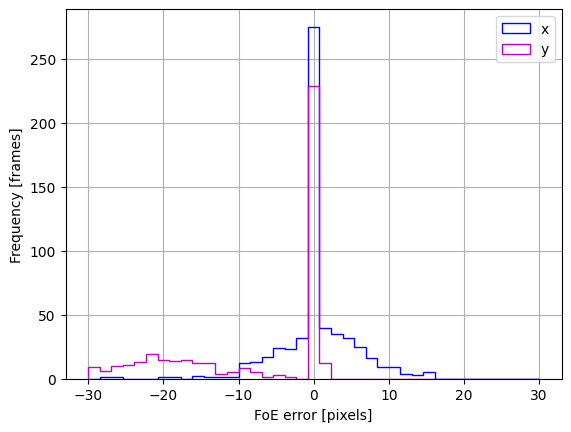
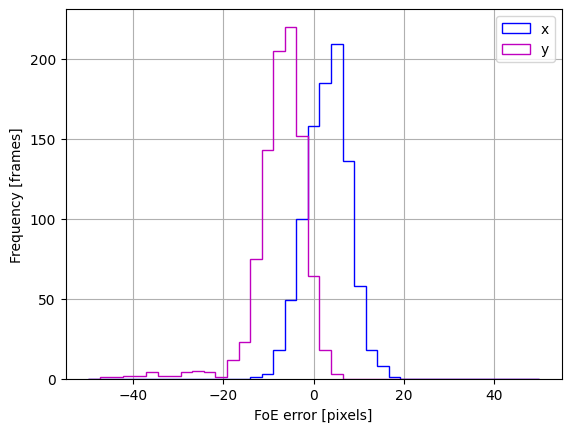
Improve figures
Former-commit-id: ff93abe1228d149b0bcba976931b618fb4181be5 [formerly 8fe4a6631e02c2bce13f45d26eb5c0f99150a54c]
Former-commit-id: 291324423d79be15621400dc873f6ae71a3a7f2d

diff --git a/src/validator.py b/src/validator.py
@@ -147,6 +147,7 @@ class Validator:
                 self.frames[i].foe_gt = json_result['foe_gt']
                 self.frames[i].drone_flow_pixels = json_result['drone_flow_pixels']
                 self.frames[i].drone_size_pixels = json_result['drone_size_pixels']
+                self.frames[i].center_phi = json_result['center_phi']
 
     def plot(self) -> None:
         utils.create_if_not_exists('media/output')
@@ -164,10 +165,9 @@ class Validator:
             return
 
         # print(foe_dense.dtype)
-        self.foe_error = foe_dense - foe_gt
-        foe_error_mag = im_helpers.get_magnitude(self.foe_error)
+        self.foe_error = foe_dense[1:] - foe_gt[1:]
 
-        outlier_threshold = 40.0
+        outlier_threshold = 50.0
         inliers_list = []
 
         for i in range(self.foe_error.shape[0]):
@@ -200,9 +200,10 @@ class Validator:
         warnings.filterwarnings('ignore')
 
         # Load data
-        t = [f.time for _, f in self.frames.items()]
-        x = [f.fpr for _, f in self.frames.items()]
-        y = [f.tpr for _, f in self.frames.items()]
+        t = np.array([f.time for _, f in self.frames.items()])
+        phi = np.array([float(f.center_phi) for _, f in self.frames.items()])
+        x = np.array([f.fpr for _, f in self.frames.items()])
+        y = np.array([f.tpr for _, f in self.frames.items()])
         flow_x = np.array([float(f.drone_flow_pixels[0]) for _, f in self.frames.items()])
         flow_y = np.array([float(f.drone_flow_pixels[1]) for _, f in self.frames.items()])
         size = np.array([int(f.drone_size_pixels) for _, f in self.frames.items()])
@@ -210,44 +211,62 @@ class Validator:
         flow_x = flow_x[~np.isnan(flow_x)]
         flow_y = flow_y[~np.isnan(flow_y)]
 
-        x_easy = x[2:len(x)//2]
-        y_easy = y[2:len(y)//2]
-        x_hard = x[len(x)//2:-2]
-        y_hard = y[len(y)//2:-2]
-
+        # Phi vs TPR
         plt.figure()
         plt.grid()
-        plt.plot(x_easy, y_easy, ls='', marker='o', label=r'$\phi \approx 180\degree$')
-        plt.plot(x_hard, y_hard, ls='', marker='o', label=r'$\phi \approx 0\degree$')
-        plt.xlabel('False Positive Rate')
-        plt.ylabel('True Positive Rate')
-        # plt.xlim(0, np.max(x_hard) * 1.02)
-        plt.xlim(0, 8e-4)
-        plt.ylim(0, 1.0)
-        plt.ticklabel_format(axis="x", style="sci", scilimits=(0,0))
-        plt.legend(loc='lower right')
-        plt.savefig(f'{self.dataset.seq_path}/roc', bbox_inches='tight')
-
-        # Time series
-        plt.figure()
-        plt.grid()
-        plt.plot(t, y, ls='', marker='o')
-        plt.xlabel('Time [s]')
+        plt.plot(phi, y, ls='', marker='o')
+        plt.xlabel(r'$\phi$ [deg]')
         plt.ylabel('True Positive Rate')
         plt.ylim(0, 1.0)
-        plt.savefig(f'{self.dataset.seq_path}/tpr_vs_time', bbox_inches='tight')
+        plt.xlim(-180, 0)
 
         print(f'size: {np.average(size):.3f}, {np.std(size):.1f}')
         print(f'flow x: {np.average(flow_x):.3f}, {np.std(flow_x):.1f}')
         print(f'flow y: {np.average(flow_y):.3f}, {np.std(flow_y):.1f}')
 
+        plt.savefig(f'{self.dataset.seq_path}/tpr_vs_time_raw', bbox_inches='tight')
+
+        # Cluster/window the data into bins to make plot more readble.
+        bins_start = np.linspace(-180, -25, 40)
+        bins_end = np.linspace(-25, 0, 30)
+        bins = np.concatenate([bins_start, bins_end])
+        avg_std = np.zeros((len(bins), 3))
+        y_finite = y[~np.isnan(y)]
+
+        for i in range(1, len(bins)):
+            bin_mask = (phi >= bins[i - 1]) * (phi < bins[i])
+
+            avg_std[i-1, :] = [
+                np.average(phi[bin_mask]),
+                np.average(y_finite[bin_mask]),
+                np.std(y_finite[bin_mask])
+            ]
+
+        # Remove nan values.
+        # avg_std = avg_std[avg_std[:, 0] > -180.0, :]
+
+        # Plot errorbars only for the optimal threshold.
+        plt.figure()
+        plt.grid()
+        plt.xlabel(r'$\phi$ [deg]')
+        plt.ylabel('True Positive Rate')
+        plt.ylim(0, 1.0)
+        plt.errorbar(avg_std[:, 0], avg_std[:, 1], yerr=avg_std[:, 2],
+            marker='o', markersize=6, capsize=3, barsabove=True, label='', zorder=1, color='indigo')
+
+        print(avg_std[:, 1])
+
+        plt.savefig(f'{self.dataset.seq_path}/tpr_vs_time', bbox_inches='tight')
+
+        # Save data
         np.save(
             f'{self.dataset.seq_path}/validation.npy',
             np.array([
                 np.average(y), np.std(y),
                 np.average(size), np.std(size),
-                np.average(flow_x), np.std(flow_x),
+                np.median(flow_x), np.std(flow_x),
                 np.average(flow_y), np.std(flow_y),
+                avg_std,
                 x, y,
             ])
         )
@@ -264,7 +283,6 @@ class Validator:
         plt.plot(x, y, ls='', marker='o')
         plt.xlabel('False Positive Rate')
         plt.ylabel('True Positive Rate')
-        # plt.xlim(0, 1.0)
         plt.ylim(0, 1.0)
         plt.savefig(f'{self.dataset.seq_path}/sky_roc', bbox_inches='tight')
         return

diff --git a/src/processor.py b/src/processor.py
@@ -309,7 +309,7 @@ class Processor:
                 FoE_gt = self.dataset.get_gt_foe(self.frame_index)
                 FoE: Tuple[float, float] = utils.assert_type(FoE_dense)
 
-                phi_angle = self.focus_of_expansion.check_flow(self.flow_uv_derotated, FoE)
+                phi_angle = self.focus_of_expansion.get_phi(self.flow_uv_derotated, FoE)
                 phi_angle_rgb = im_helpers.to_rgb(phi_angle, max_value=180.0)
                 result_img = im_helpers.apply_colormap(phi_angle_rgb, max_value=180.0)
 
@@ -319,16 +319,15 @@ class Processor:
 
                 if True:
                     segmentation = self.dataset.get_segmentation(self.frame_index)[..., 0]
-                    estimate = phi_angle * (mask != True) * (self.flow_mag > 1.0)
-                    angle_threshold = 20
+                    estimate = phi_angle * (self.flow_mag > 1.0) * (mask != True)
+                    angle_threshold = 15
 
                     drone_flow_avg = np.average(self.flow_uv[segmentation > 127], axis=0)
                     drone_flow_avg_gt = np.average(self.dataset.get_gt_of(self.frame_index)[segmentation > 127], axis=0)
 
                     bounding_box = im_helpers.get_simple_bounding_box(segmentation)
-
-                    print(bounding_box.get_left() - prev_bbox_left, drone_flow_avg[0], drone_flow_avg_gt[0], 1920 / self.dataset.N)
-                    prev_bbox_left = bounding_box.get_left()
+                    center = bounding_box.get_center()
+                    center_phi = np.rad2deg(np.arctan2(center[1] - FoE_gt[1], center[0] - FoE_gt[0]))
 
                     tpr, fpr = im_helpers.calculate_tpr_fpr(segmentation, 255 * (estimate > angle_threshold))
                     frameresult.tpr = tpr
@@ -338,12 +337,19 @@ class Processor:
                     frameresult.drone_flow_pixels = (drone_flow_avg_gt[0], drone_flow_avg_gt[1])
                     frameresult.drone_size_pixels = np.sum(segmentation > 127)
                     frameresult.time = self.dataset.get_time(self.frame_index)
+                    frameresult.center_phi = center_phi
 
                     utils.create_if_not_exists(self.dataset.result_imgs_path)
-                    img = im_helpers.apply_colormap(estimate, max_value=180)
-                    img = self.focus_of_expansion.draw_FoE(img, FoE_dense,  [255, 255, 255])
-
+                    img = im_helpers.to_rgb(255 * (estimate > angle_threshold))
                     cv2.imwrite(f'{self.dataset.result_imgs_path}/image_{self.frame_index:05d}.png', img)
+
+                    derotated_path = self.dataset.seq_path + '/derotated'
+                    utils.create_if_not_exists(derotated_path)
+                    cv2.imwrite(f'{derotated_path}/image_{self.frame_index:05d}.png', im_helpers.get_flow_vis(self.flow_uv_derotated))
+
+                    phi_path = self.dataset.seq_path + '/phi'
+                    utils.create_if_not_exists(phi_path)
+                    cv2.imwrite(f'{phi_path}/image_{self.frame_index:05d}.png', phi_angle_rgb)
 
                 for img in [orig_frame, result_img]:
                     img = self.focus_of_expansion.draw_FoE(img, FoE_dense,  [0, 255, 0])
@@ -355,8 +361,12 @@ class Processor:
                 self.config.results[self.frame_index] = frameresult
 
                 if result_img is not None and np.sum(result_img) > 0:
-                    mask_vis = orig_frame
-                    mask_vis[estimate > angle_threshold, :] = mask_vis[estimate > angle_threshold, :] * 0.5 + 127
+                    mask = estimate > angle_threshold
+                    mask_rgb = np.zeros_like(orig_frame)
+                    mask_rgb[mask, 0] = 150
+                    mask_rgb[mask, 2] = 150
+                    alpha = 0.5
+                    mask_vis = cv2.addWeighted(orig_frame, alpha, mask_rgb, 1.0 - alpha, 0.0)
                     self.write(mask_vis)
                 else:
                     print('An error occured while processing frames.')

diff --git a/src/get_figures.py b/src/get_figures.py
@@ -1,19 +1,80 @@
 import glob
 import numpy as np
 import matplotlib.pyplot as plt
+import os
+import re
+import json
+from matplotlib import cm
+from matplotlib.ticker import LinearLocator
 
-validation_data = glob.glob('/home/erik/tno/datasets/data/mountains-line/*/validation.npy')
+validation_data = glob.glob(os.getenv('SIMDATA_PATH') + '/mountains-line-clouds/lake-line-0-north-low-5.0-0.*-default/validation.npy')
 validation_data.sort()
 
-for d in validation_data:
+# Plot errorbars only for the optimal threshold.
+plt.grid()
+plt.xlabel(r'$\phi$ [deg]')
+plt.ylabel('True Positive Rate')
+plt.ylim(0, 1.0)
+
+colors = ['g', 'b', 'indigo', 'purple']
+flows = [2.02, 4.2, 8.77]
+flows = [2.0, 4.0, 8.0]
+
+data_per_velocity = {}
+
+for i, d in enumerate(validation_data):
+    matches = re.findall('^.+lake-line-0-north-low-(.+)-(.+)-default.+$', d)
+    distance = float(matches[0][0])
+    velocity = float(matches[0][1])
+
     validation = np.load(d, allow_pickle=True)
     tpr = validation[:2]
     size = validation[2:4]
     flow_x = validation[4:6]
     flow_y = validation[6:8]
+    avg_std = validation[8]
 
-    label = f'{flow_x[0]} (±{flow_x[1]}) px/s'
-    plt.errorbar(size[0], size[1], tpr[0], tpr[1],
-                marker='o', markersize=6, capsize=3,
-                barsabove=False, label=label, zorder=1, color='indigo')
-    plt.savefig('test')
+    label = f'flow: {flow_x[0]:.01f} px/frame ({velocity:.1f}m/s)' #±{flow_x[1]:.01f}
+
+    if isinstance(avg_std, np.ndarray):
+        data_per_velocity[flow_x[0]] = (np.absolute(avg_std[2:, 0]), avg_std[2:, 1])
+
+        plt.errorbar(avg_std[:, 0], avg_std[:, 1],# yerr=avg_std[:, 2],
+            marker='o', markersize=6, capsize=3, barsabove=False, label=label, zorder=1, color=colors[i])
+
+plt.savefig('test.png')
+
+y = np.array(list(data_per_velocity.keys()))
+x = data_per_velocity[y[0]][0]
+X, Y = np.meshgrid(x, y)
+Z = np.zeros_like(Y)
+
+for i in range(len(y)):
+    Z[i, ...] = data_per_velocity[y[i]][1]
+
+Z = np.nan_to_num(Z, 0)
+
+# Plot the surface.
+plt.figure()
+fig, ax = plt.subplots(subplot_kw={"projection": "3d"})
+surf = ax.plot_surface(X, Y, Z, cmap=cm.jet,
+                       linewidth=0, antialiased=False, vmax=1)
+
+# Customize the z axis.
+ax.set_zlim(0, 1)
+ax.zaxis.set_major_locator(LinearLocator(11))
+
+# A StrMethodFormatter is used automatically
+ax.zaxis.set_major_formatter('{x:.01f}')
+ax.set_xlabel(r'$\phi$ [deg]')
+ax.set_ylabel(r'flow [px/frame]')
+ax.set_zlabel('True Positive Rate')
+
+# ax.set_ylim(10, 0)
+ax.set_xlim(180, 0)
+
+# Add a color bar which maps values to colors.
+fig.colorbar(surf, shrink=0.7, aspect=10, ax=ax, pad=0.12)
+
+plt.savefig(f'tpr_vs_phi.png', bbox_inches='tight')
+plt.savefig(f'tpr_vs_phi.eps', bbox_inches='tight')

diff --git a/src/focus_of_expansion.py b/src/focus_of_expansion.py
@@ -147,8 +147,8 @@ class FocusOfExpansion:
         intersections = intersections[intersections[:, 0] != 0.0, :]
         return self.ransac(intersections)
 
-    def check_flow(self, derotated_flow_uv: np.ndarray, FoE: Tuple[float, float]) -> np.ndarray:
-        """Checks which pixels of a flow field are parallel with the FoE.
+    def get_phi(self, derotated_flow_uv: np.ndarray, FoE: Tuple[float, float]) -> np.ndarray:
+        """Calculates the angle phi per pixel.
 
         Args:
             derotated_flow_uv (np.ndarray): the derotated flow field

diff --git a/src/frame_result.py b/src/frame_result.py
@@ -12,3 +12,4 @@ class FrameResult:
         self.drone_flow_pixels = (0.0, 0.0)
         self.foe_dense = (0.0, 0.0)
         self.foe_gt = (0.0, 0.0)
+        self.center_phi = 0.0
